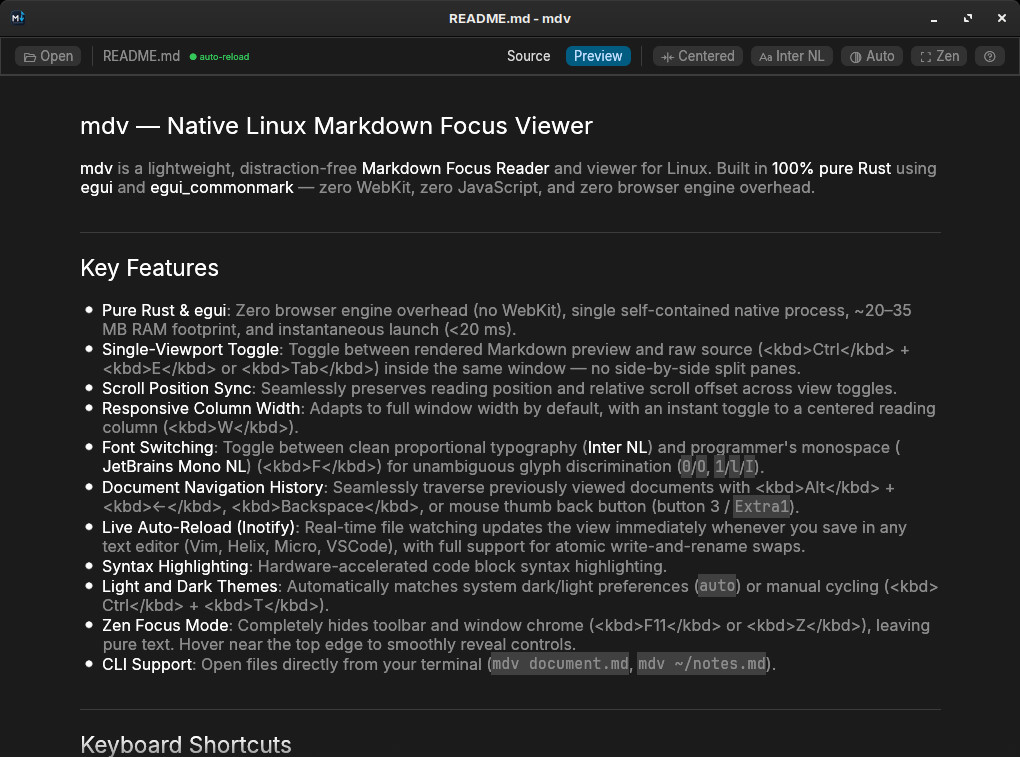
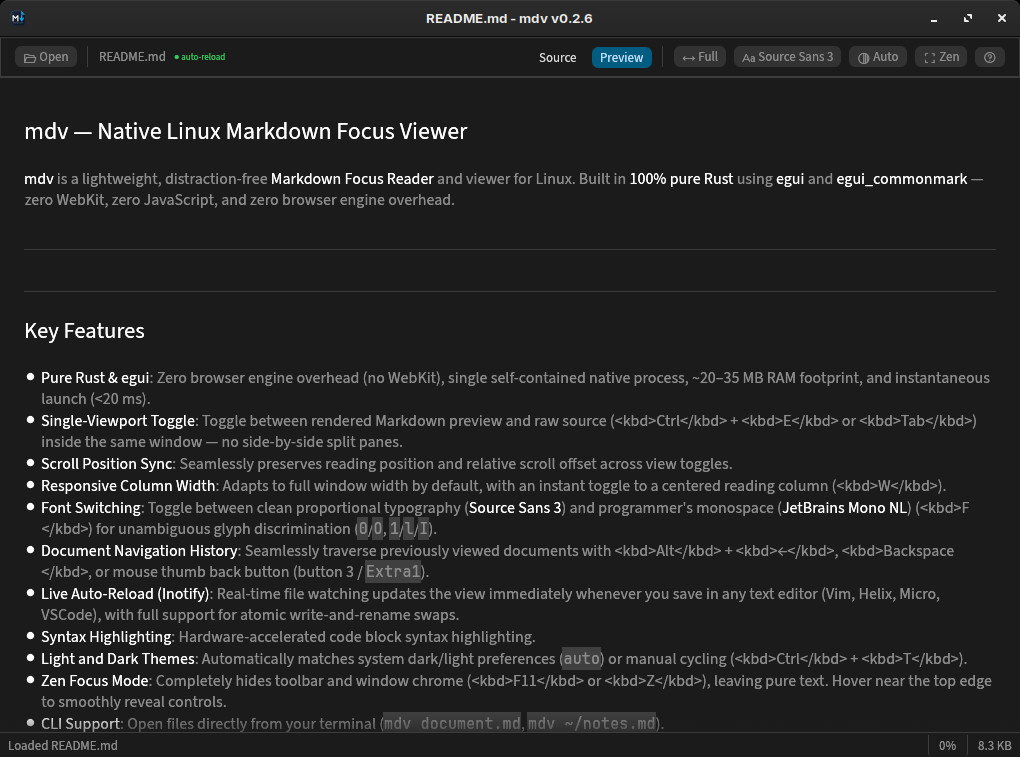
added status bar

diff --git a/src/app.rs b/src/app.rs
@@ -858,6 +858,39 @@ impl MdvApp {
         }
     }
 
+    fn render_status_bar(&self, ui: &mut Ui) {
+        let status_message = if let Some(ref file) = self.current_file {
+            format!("Loaded {}", file.filename)
+        } else {
+            "Ready".to_string()
+        };
+
+        ui.horizontal(|ui| {
+            let label_resp = ui.label(&status_message);
+            if let Some(ref file) = self.current_file {
+                if let Some(ref path) = file.path {
+                    label_resp.on_hover_text(path.display().to_string());
+                }
+            }
+
+            ui.with_layout(egui::Layout::right_to_left(egui::Align::Center), |ui| {
+                if let Some(ref file) = self.current_file {
+                    let size_str = format_file_size(file.content.len());
+                    ui.label(size_str);
+                    ui.separator();
+
+                    let pct = if self.max_scroll_offset <= 0.0 {
+                        100
+                    } else {
+                        (self.current_scroll_ratio * 100.0).round().clamp(0.0, 100.0) as u32
+                    };
+                    ui.label(format!("{pct}%"));
+                    ui.separator();
+                }
+            });
+        });
+    }
+
     fn render_toast(&mut self, ctx: &egui::Context) {
         if let Some((msg, created_at)) = &self.toast {
             let elapsed = created_at.elapsed();
@@ -877,7 +910,7 @@ impl MdvApp {
             let text_color = Color32::from_white_alpha((255.0 * alpha) as u8);
 
             egui::Area::new(Id::unique("toast_area"))
-                .anchor(egui::Align2::CENTER_BOTTOM, [0.0, -28.0])
+                .anchor(egui::Align2::CENTER_BOTTOM, [0.0, -36.0])
                 .order(egui::Order::Tooltip)
                 .interactable(false)
                 .show(ctx, |ui| {
@@ -958,6 +991,17 @@ impl eframe::App for MdvApp {
                 .show(ui, |ui| {
                     self.render_toolbar(ui, &ctx);
                 });
+        }
+
+        // 3b. Bottom Status Bar (matches imge bottom_panel; reveals on hover near bottom edge in Zen mode)
+        let screen_height = ctx.viewport_rect().height();
+        let near_bottom = mouse_pos.map(|p| p.y >= screen_height - 28.0).unwrap_or(false);
+        let show_status_bar = !self.is_zen_mode || near_bottom;
+
+        if show_status_bar {
+            egui::Panel::bottom("bottom_panel").show(ui, |ui| {
+                self.render_status_bar(ui);
+            });
         }
 
         // 4. Main Document Viewport
@@ -1277,6 +1321,22 @@ fn icon_button(ui: &mut Ui, icon: &str, text: &str) -> egui::Response {
     ui.button(job)
 }
 
+pub fn format_file_size(bytes: usize) -> String {
+    const KB: f64 = 1024.0;
+    const MB: f64 = 1024.0 * 1024.0;
+    const GB: f64 = 1024.0 * 1024.0 * 1024.0;
+    let b = bytes as f64;
+    if b < KB {
+        format!("{} B", bytes)
+    } else if b < MB {
+        format!("{:.1} KB", b / KB)
+    } else if b < GB {
+        format!("{:.1} MB", b / MB)
+    } else {
+        format!("{:.2} GB", b / GB)
+    }
+}
+
 fn setup_custom_fonts(ctx: &egui::Context) {
     let mut fonts = egui::FontDefinitions::default();
 
@@ -1432,5 +1492,15 @@ mod tests {
         app.toggle_word_wrap();
         assert!(app.word_wrap);
         assert_eq!(app.toast.as_ref().map(|t| t.0.as_str()), Some("Word Wrap: ON"));
+    }
+
+    #[test]
+    fn test_format_file_size() {
+        assert_eq!(format_file_size(0), "0 B");
+        assert_eq!(format_file_size(512), "512 B");
+        assert_eq!(format_file_size(1024), "1.0 KB");
+        assert_eq!(format_file_size(1536), "1.5 KB");
+        assert_eq!(format_file_size(1048576), "1.0 MB");
+        assert_eq!(format_file_size(2621440), "2.5 MB");
     }
 }

diff --git a/vendor/egui_commonmark_backend/src/misc.rs b/vendor/egui_commonmark_backend/src/misc.rs
@@ -457,11 +457,33 @@ impl Image {
             alt_src_spans,
         } = self;
 
-        let response = ui.add(
-            egui::Image::from_uri(&uri)
-                .fit_to_original_size(1.0)
-                .max_width(options.max_width(ui)),
-        );
+        let is_remote = uri.starts_with("http://")
+            || uri.starts_with("https://")
+            || uri.starts_with("//");
+
+        let (response, height) = if is_remote {
+            let resp = ui.hyperlink_to(&uri, &uri);
+            let h = resp.rect.height();
+            (resp, h)
+        } else {
+            let resp = ui.add(
+                egui::Image::from_uri(&uri)
+                    .fit_to_original_size(1.0)
+                    .max_width(options.max_width(ui)),
+            );
+            // egui's 24×24 placeholder means height ≥ 1.0 even while Pending, so
+            // query the load state directly rather than relying on height alone.
+            let is_pending = matches!(
+                ui.ctx().try_load_texture(
+                    &uri,
+                    egui::TextureOptions::default(),
+                    egui::load::SizeHint::default(),
+                ),
+                Ok(egui::load::TexturePoll::Pending { .. })
+            );
+            let h = if is_pending { 0.0 } else { resp.rect.height() };
+            (resp, h)
+        };
         // Save the rect now; `on_hover_ui_at_pointer` consumes `response`.
         let rect = response.rect;
 
@@ -472,18 +494,6 @@ impl Image {
                 }
             });
         }
-
-        // egui's 24×24 placeholder means height ≥ 1.0 even while Pending, so
-        // query the load state directly rather than relying on height alone.
-        let is_pending = matches!(
-            ui.ctx().try_load_texture(
-                &uri,
-                egui::TextureOptions::default(),
-                egui::load::SizeHint::default(),
-            ),
-            Ok(egui::load::TexturePoll::Pending { .. })
-        );
-        let height = if is_pending { 0.0 } else { rect.height() };
 
         // --- Search match highlighting (regex feature only) ---
         #[cfg(feature = "regex")]

diff --git a/src/welcome.rs b/src/welcome.rs
@@ -1,6 +1,6 @@
 #![allow(dead_code)]
 
-pub const WELCOME_DOC: &str = r#"# Welcome to mdv v0.2.5
+pub const WELCOME_DOC: &str = r#"# Welcome to mdv v0.2.6
 
 **mdv** is a native, distraction-free **Markdown Focus Viewer** written purely in Rust.
 
